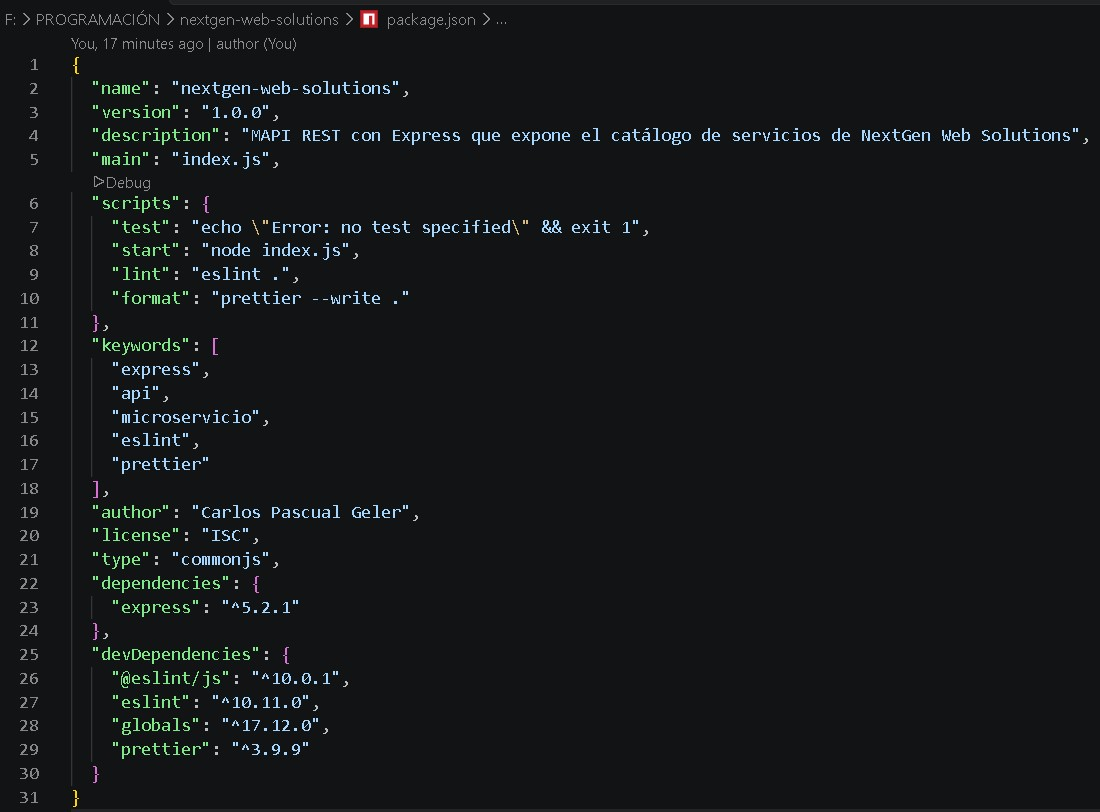
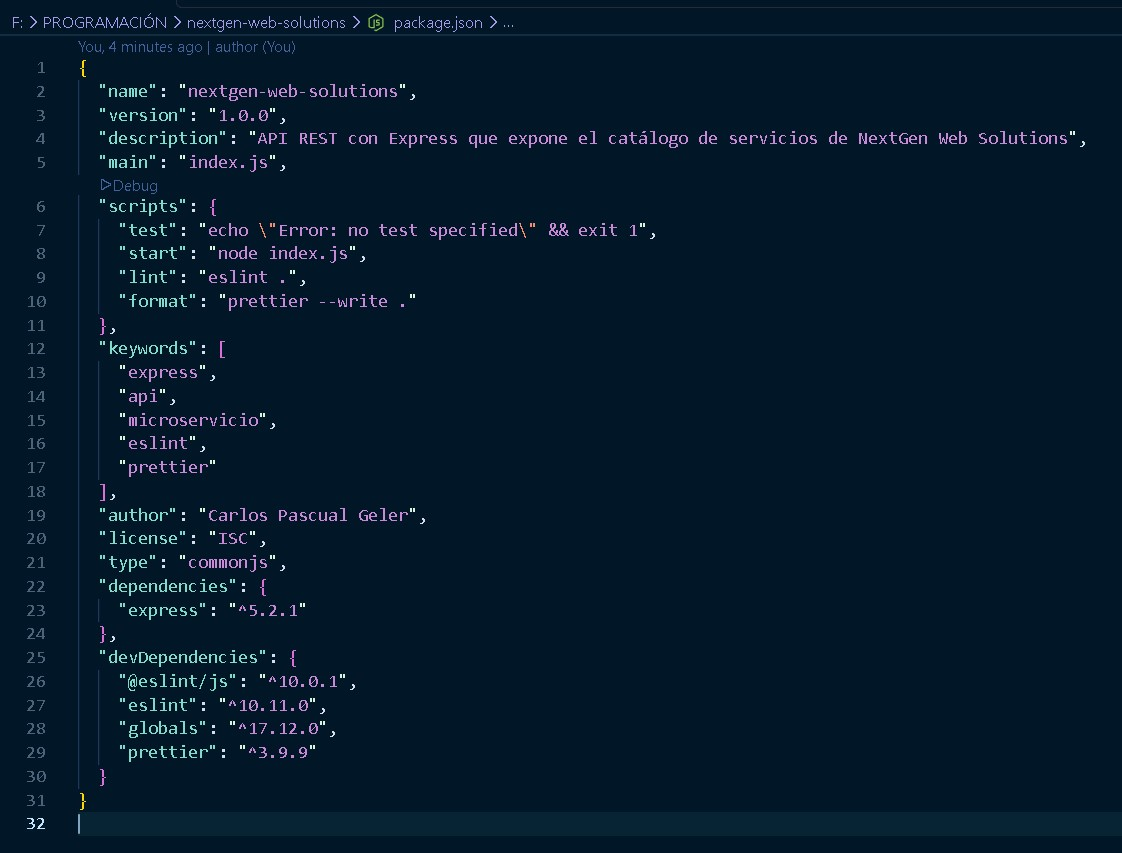
Revisión capturas y Readme

Changed region(s): [[0.0, 0.0, 1.0, 1.0]]

diff --git a/README.md b/README.md
@@ -1,0 +1,303 @@
+# NextGen Web Solutions: entorno profesional, auditoría con DevTools y microservicio
+
+## Introducción
+
+Como desarrollador junior de NextGen, el encargo consiste en analizar una tienda online con problemas de rendimiento y errores silenciosos y proponer mejoras. Para la auditoría se ha elegido un caso real: la web de The True Mayhem (`thetruemayhem.com`) y su tienda online (`thetruemayhemstore.eu`).
+
+El trabajo se divide en tres tareas: preparar un entorno profesional en VS Code, auditar la web con las herramientas de desarrollo del navegador y crear un pequeño microservicio con npm y Git.
+
+El repositorio reúne la configuración de VS Code, ESLint y Prettier, las capturas de la auditoría, el código del microservicio y este informe. La estructura principal es la siguiente:
+
+```text
+nextgen-web-solutions/
+├── .vscode/
+│   ├── extensions.json   ← extensiones recomendadas
+│   └── settings.json     ← ajustes comunes del proyecto
+├── capturas/             ← imágenes del informe
+├── index.js              ← el microservicio
+├── eslint.config.mjs
+├── .prettierrc
+├── .gitignore
+├── package.json
+├── package-lock.json
+└── README.md
+```
+
+## 1. Entorno profesional en VS Code
+
+### 1.1. Herramientas de desarrollo
+
+#### ESLint
+
+ESLint es un *linter*: analiza el código sin ejecutarlo y avisa de errores y malas prácticas, como variables que se declaran pero no se usan. Permite detectar estos problemas mientras se escribe. En este proyecto, las reglas están definidas en `eslint.config.mjs` a partir de la configuración recomendada.
+
+![ESLint instalado en VS Code](capturas/eslint.jpg)
+
+#### Prettier
+
+Prettier es un formateador de código. Se ocupa del aspecto del código, no de comprobar si funciona. Define cuestiones como las comillas, los puntos y coma, la sangría y la longitud de las líneas. En este proyecto, las reglas están en `.prettierrc`.
+
+ESLint comprueba las reglas y la calidad del código; Prettier se encarga de que el formato sea uniforme.
+
+![Prettier instalado en VS Code](capturas/prettier.jpg)
+
+#### Error Lens
+
+Error Lens muestra sobre la propia línea de código los avisos y errores que ya han detectado ESLint y VS Code. Así se pueden ver los problemas sin abrir el panel de Problemas. Su utilidad principal es hacerlos visibles mientras se trabaja.
+
+![Error Lens mostrando un aviso en la línea](capturas/error-lens.jpg)
+
+#### GitLens
+
+GitLens amplía las funciones de Git que ya ofrece VS Code. Permite ver quién modificó una línea, cuándo lo hizo y en qué commit mediante la función *blame*. También permite consultar el historial de los archivos desde el propio editor.
+
+![GitLens mostrando el autor y el commit de una línea](capturas/gitlens.jpg)
+
+### 1.2. Configuración del entorno
+
+El entorno de desarrollo tiene dos niveles de configuración. Uno es personal y recoge las preferencias de cada desarrollador. El otro pertenece al proyecto, se guarda en el repositorio y se comparte mediante Git. Si un ajuste aparece en los dos niveles, prevalece el del proyecto, por lo que las reglas comunes se mantienen aunque cada desarrollador tenga preferencias distintas.
+
+#### Configuración del proyecto
+
+La configuración compartida está en la carpeta `.vscode` y en los archivos de configuración del proyecto. Así, todos los desarrolladores trabajan con las mismas herramientas y reglas.
+
+El archivo `.vscode/extensions.json` contiene las extensiones recomendadas para trabajar con el proyecto:
+
+```json
+{
+  "recommendations": [
+    "dbaeumer.vscode-eslint",
+    "esbenp.prettier-vscode",
+    "usernamehw.errorlens",
+    "eamodio.gitlens"
+  ]
+}
+```
+
+Cuando otro desarrollador abre el proyecto, VS Code le muestra estas extensiones como recomendadas y puede instalarlas desde ahí.
+
+![Extensiones recomendadas del área de trabajo](capturas/extensiones-recomendadas.jpg)
+
+El archivo `.vscode/settings.json` contiene tres ajustes específicos para este proyecto:
+
+```json
+{
+  "editor.formatOnSave": true,
+  "editor.defaultFormatter": "esbenp.prettier-vscode",
+  "editor.codeActionsOnSave": {
+    "source.fixAll.eslint": "explicit"
+  }
+}
+```
+
+`editor.formatOnSave` aplica el formateo al guardar, `editor.defaultFormatter` establece Prettier como formateador y `editor.codeActionsOnSave` ejecuta las correcciones de ESLint al guardar manualmente con `Ctrl + S`. Con `"explicit"`, ESLint no se ejecuta en los guardados automáticos.
+
+Además, `.prettierrc` define las reglas de Prettier y `eslint.config.mjs` las reglas que usa ESLint para analizar el código. Como forman parte del repositorio, estas reglas son comunes para todo el equipo.
+
+#### Configuración personal
+
+No todas las preferencias deben formar parte del repositorio. El guardado automático al cambiar de archivo o de ventana es un ejemplo de una preferencia personal:
+
+```json
+{
+  "files.autoSave": "onFocusChange"
+}
+```
+
+Esta opción guarda los archivos cuando el editor pierde el foco, por ejemplo, al cambiar a otro archivo o a otra ventana. Se mantiene en la configuración personal porque es una preferencia de trabajo y no una regla del proyecto.
+
+![Ajustes personales de VS Code](capturas/settings-json.jpg)
+
+### 1.3. Flujo de trabajo
+
+Las herramientas anteriores forman un flujo de trabajo que acompaña al código desde que se escribe hasta que se registra en el repositorio:
+
+1. **Escritura.** Mientras se escribe, ESLint analiza el código y Error Lens muestra los avisos en la misma línea donde se producen, de modo que los problemas se corrigen en el momento.
+2. **Guardado.** Al guardar con `Ctrl + S`, ESLint corrige automáticamente lo que puede y Prettier da formato al archivo. En el guardado automático, al cambiar de archivo o de ventana, solo actúa Prettier.
+3. **Comprobación desde el terminal.** Los scripts `npm run lint` y `npm run format` aplican las mismas reglas sin depender del editor, por lo que el estándar se puede verificar en cualquier equipo.
+4. **Registro del cambio.** Tras el commit, GitLens muestra en cada línea quién la modificó, cuándo y en qué commit, lo que permite seguir la evolución del código sin salir del editor.
+
+Así, el estándar de trabajo queda definido en el proyecto y no depende de los hábitos de cada desarrollador.
+
+## 2. Auditoría con DevTools: Network
+
+### 2.1. Objeto de estudio y metodología
+
+La auditoría se ha realizado sobre la tienda `thetruemayhemstore.eu`, construida con Shopify, y sobre la web principal `thetruemayhem.com`, construida con WordPress. Se han usado las herramientas de desarrollo de Chrome (`F12`): **Network** para revisar los recursos descargados, **Console** para detectar errores y **Lighthouse** para medir el rendimiento.
+
+Las pruebas de Lighthouse se han ejecutado en modo móvil, emulando un Moto G Power con una conexión *Slow 4G*.
+
+### 2.2. Visión general de la carga
+
+Al cargar la página principal de la tienda, Network registra **374 peticiones** y una transferencia total de **4,9 MB**. Es una cifra alta para una página de inicio. En una conexión móvil lenta, tantas peticiones y tantos datos aumentan el tiempo de carga.
+
+![Resumen de peticiones en la pestaña Network](capturas/[COMPLETAR].jpg)
+
+### 2.3. Recursos que retrasan la carga
+
+| Recurso | Peso | Problema |
+|---|---|---|
+| `app.js` | 246 kB | Script principal de gran tamaño que el navegador debe descargar y ejecutar antes de que la página responda |
+| Scripts de terceros (Facebook Pixel, Google Analytics) | ~385 kB | Código de rastreo y publicidad que no aporta nada a la experiencia de compra |
+| Imágenes de producto | [COMPLETAR] | Se descargan todas al inicio, aunque no estén visibles en pantalla |
+| Logo | [COMPLETAR] | Imagen mucho más grande de lo que se muestra en pantalla |
+
+**Scripts de terceros.** El píxel de Facebook lo añade una aplicación de Shopify llamada Orichi. En la columna *Initiator* de Network se puede comprobar que lo carga `orichi-v2.min.js`. Las aplicaciones de Shopify pueden añadir sus propios scripts, por lo que conviene revisar qué recursos incorpora cada una. También habría que comprobar si el píxel se está cargando dos veces: una desde la aplicación y otra desde la configuración de Shopify.
+
+**Imágenes sin carga diferida.** Las imágenes de producto se descargan aunque todavía no sean visibles. Con `loading="lazy"`, el navegador puede esperar a que el usuario se acerque a ellas antes de descargarlas.
+
+**Logo sobredimensionado.** El logo se descarga con unas dimensiones mucho mayores que las que tiene en pantalla. Eso hace que se descarguen datos que no son necesarios.
+
+![Recursos más pesados ordenados por tamaño](capturas/[COMPLETAR].jpg)
+
+### 2.4. Medición con Lighthouse
+
+La puntuación de rendimiento de la tienda estuvo **entre 29 y 56 sobre 100** en distintas ejecuciones, sin cambios en la web. Lighthouse puede dar resultados diferentes según las condiciones de la prueba, especialmente por la red y por la carga de los scripts de terceros. Las métricas siguientes corresponden a la ejecución con puntuación 29:
+
+| Métrica | Valor | Qué mide |
+|---|---|---|
+| FCP (First Contentful Paint) | [COMPLETAR] | Cuándo aparece el primer contenido en pantalla |
+| LCP (Largest Contentful Paint) | [COMPLETAR] | Cuándo se muestra el elemento principal de la página |
+| TBT (Total Blocking Time) | [COMPLETAR] | Tiempo en que la página no responde porque el navegador está ejecutando JavaScript |
+| CLS (Cumulative Layout Shift) | [COMPLETAR] | Cuánto se mueven los elementos mientras se carga la página |
+| Speed Index | [COMPLETAR] | Rapidez con la que se completa visualmente la página |
+
+Las otras tres categorías de Lighthouse (accesibilidad, buenas prácticas y SEO) obtuvieron 100. El principal problema detectado está, por tanto, en el rendimiento.
+
+![Puntuaciones de Lighthouse](capturas/mayhem-lighthouse-1.jpg)
+![Métricas de rendimiento](capturas/mayhem-lighthouse-2.jpg)
+![Mejoras propuestas por Lighthouse](capturas/mayhem-lighthouse-3.jpg)
+![Diagnóstico del peso de JavaScript](capturas/mayhem-lighthouse-4.jpg)
+![Condiciones de la prueba](capturas/mayhem-lighthouse-5.jpg)
+
+### 2.5. Recomendaciones de rendimiento
+
+1. Revisar las aplicaciones de Shopify instaladas y eliminar las que no se usen, empezando por las que añaden scripts de rastreo.
+2. Comprobar si el píxel de Facebook se carga por duplicado y dejar una sola integración.
+3. Aplicar carga diferida (`loading="lazy"`) a las imágenes que no son visibles al cargar la página.
+4. Redimensionar el logo al tamaño con el que se muestra y servirlo en un formato moderno como WebP.
+5. Revisar el contenido de `app.js` para dividirlo o retrasar la carga de las partes que no hacen falta al inicio.
+
+## 3. Auditoría con DevTools: Console
+
+El encargo habla de "errores silenciosos": fallos que no rompen nada visible, pero que indican que algo no funciona bien. En la web principal de The True Mayhem se han encontrado dos tipos.
+
+### 3.1. Errores de script de MailerLite
+
+MailerLite es el servicio de *email marketing* que gestiona la suscripción a la newsletter del grupo. En la consola aparecen dos errores relacionados y cada uno se repite dos veces:
+
+```text
+Invalid argument "accounts" passed to MailerLite script
+Uncaught TypeError: window[window.MailerLiteObject](...) is not a function
+```
+
+Los errores no aparecían en todas las recargas. Por eso fue necesario activar **Preserve log** en la consola para conservar los mensajes entre cargas.
+
+![Errores de MailerLite en la consola](capturas/mayhem-errores.jpg)
+
+**Origen de los errores.** Al buscar `mailerlite` en Network se localizó `popups.js`, servido desde `static.mailerlite.com`. Sus líneas 35 a 37 permiten entender los dos errores:
+
+```js
+window.MailerLiteObject = window.MailerLiteObject || 'ml';
+window[window.MailerLiteObject] = window[window.MailerLiteObject] || function () {};
+// [COMPLETAR: copiar la línea 37 tal como aparece en la captura]
+```
+
+1. La línea 35 establece que la función de MailerLite se llamará `ml`.
+2. La línea 36 crea `ml` como función vacía si todavía no existe.
+3. La línea 37 hace dos llamadas encadenadas: primero `ml('accounts')` y después una segunda llamada usando el resultado.
+
+La versión actual de MailerLite no reconoce el argumento `'accounts'` y produce el **primer error**. Como la llamada devuelve `undefined`, la línea 37 intenta ejecutar ese resultado como si fuera una función y produce el **segundo error**. Por tanto, **el primer error provoca el segundo**.
+
+![Líneas 35 a 37 de popups.js](capturas/mayhem-mailerlite.jpg)
+
+**Diagnóstico.** En la página aparecen dos integraciones de MailerLite de épocas distintas: `popups.js`, del sistema antiguo de ventanas emergentes, y `universal.js`, el script actual, que ya no acepta la llamada `accounts`. Además, `custom.js?ver=1625936861` tiene una versión de julio de 2021. Todo apunta a una web montada en 2021 y actualizada solo en parte: se añadió el script nuevo sin retirar el antiguo.
+
+**Por qué los errores son intermitentes.** La explicación más probable es que los scripts se cargan de forma asíncrona y el orden puede cambiar según la velocidad de la red. Si uno llega antes que otro, se produce el fallo. Esto encaja con que los errores aparecieran con Lighthouse, que simula una red lenta, y en algunas primeras visitas, pero no siempre al recargar.
+
+**Una pista falsa.** Buscar `mailerlite` en Network devuelve cientos de coincidencias en más de 150 archivos. La mayoría corresponden a una cookie de MailerLite que el navegador envía en cada petición al dominio, no a cientos de scripts. Por eso hay que distinguir esas coincidencias del código que realmente provoca el error.
+
+### 3.2. Contenido mixto (Mixed Content)
+
+La consola muestra **12 avisos de Mixed Content**. Aparecen cuando una página cargada por HTTPS intenta cargar recursos mediante HTTP. En este caso, son imágenes cuyas direcciones siguen apuntando a `http://` en la carpeta de subidas de WordPress de 2021.
+
+Los navegadores actuales pueden intentar cargar esos recursos por HTTPS o bloquearlos. El resultado puede ser que algunas imágenes no se muestren y que aparezca una advertencia de seguridad.
+
+![Avisos de Mixed Content en la consola](capturas/[COMPLETAR].jpg)
+
+### 3.3. Recomendaciones
+
+1. Eliminar la integración antigua de MailerLite (`popups.js` y la llamada desde `custom.js`) y mantener solo el código de inserción actual.
+2. Actualizar las direcciones de las imágenes de `http://` a `https://` en la base de datos de WordPress.
+3. Incorporar una herramienta de registro de errores en producción, ya que los fallos intermitentes como estos son difíciles de detectar revisando la consola a mano.
+
+## 4. Microservicio con npm y Git
+
+### 4.1. Inicialización y dependencias
+
+El proyecto se ha creado con `npm init -y`, que genera `package.json`, donde se define la información y las dependencias del proyecto. Las dependencias se dividen en dos grupos:
+
+| Tipo | Paquete | Uso |
+|---|---|---|
+| `dependencies` | `express` | Framework con el que se crea el servidor; el programa lo necesita para funcionar |
+| `devDependencies` | `eslint`, `@eslint/js`, `globals` | Análisis del código y configuración de ESLint para Node |
+| `devDependencies` | `prettier` | Formateo del código |
+
+Las dependencias de desarrollo se utilizan durante el desarrollo y no son necesarias para ejecutar el programa en producción.
+
+![package.json del proyecto](capturas/package-json.jpg)
+
+### 4.2. Scripts de npm
+
+[COMPLETAR: copiar el bloque `"scripts"` del package.json]
+
+- `npm start` arranca el servidor.
+- `npm run lint` analiza el código con ESLint.
+- `npm run format` da formato al código con Prettier.
+
+### 4.3. La ruta `/api/servicios`
+
+El microservicio, definido en `index.js`, expone la ruta `/api/servicios` y devuelve en JSON la lista de servicios de la agencia. El puerto está definido como una constante al principio del archivo, de modo que se puede cambiar desde un único punto.
+
+![Respuesta de la ruta /api/servicios en el navegador](capturas/servicios-api.jpg)
+
+### 4.4. Cómo ejecutarlo
+
+```powershell
+git clone https://github.com/CarlosPaskual/nextgen-web-solutions.git
+cd nextgen-web-solutions
+npm install
+npm start
+```
+
+Después, abre en el navegador `http://localhost:[COMPLETAR: puerto]/api/servicios`.
+
+### 4.5. Control de versiones con Git
+
+El archivo `.gitignore` excluye la carpeta `node_modules`, donde se guardan las dependencias instaladas. No se sube al repositorio porque se puede volver a generar con `npm install` a partir de `package.json` y `package-lock.json`.
+
+Cada paso del proyecto se ha guardado en un commit con un mensaje descriptivo. Así, el historial permite seguir la evolución del trabajo:
+
+```text
+[COMPLETAR: pegar la salida actual de git log --oneline]
+```
+
+## 5. Mentalidad de desarrollador
+
+Este trabajo ha permitido comprobar en la práctica que algunas ideas habituales sobre el desarrollo web no siempre son ciertas.
+
+**"VS Code es un IDE."** Un IDE (entorno de desarrollo integrado) reúne en una sola herramienta funciones como el análisis del código, la depuración, el terminal y el control de versiones. Al instalar VS Code, no tenía avisos de ESLint, ni el formateo de Prettier, ni la información de historial que aporta GitLens. En este proyecto, esas funciones se han añadido mediante extensiones y configuración.
+
+**"Si la web se ve bien, no tiene errores."** La web de The True Mayhem funciona aparentemente con normalidad, pero la consola muestra errores de MailerLite que solo aparecen en algunas cargas. Un error silencioso puede afectar a una función, como la suscripción a la newsletter, sin que el usuario lo vea.
+
+**"La nota de Lighthouse es un dato fijo."** La misma tienda obtuvo 56 en una ejecución y 29 en otra, sin cambios en la web. Por eso conviene repetir las mediciones y mirar las métricas, no quedarse con una sola puntuación.
+
+**"`node_modules` se sube al repositorio."** Las dependencias no se suben: se indican en `package.json` y se instalan con `npm install`. Por eso `node_modules` aparece en `.gitignore`.
+
+**"El formato del código es cosa de cada uno."** Con `.prettierrc` y la carpeta `.vscode` en el repositorio, el equipo puede usar el mismo formato aunque cada desarrollador tenga sus propias preferencias.
+
+## 6. Conclusión
+
+El trabajo cubre las tres tareas del encargo. La configuración de VS Code queda en el repositorio junto con las reglas de ESLint y Prettier, de modo que el proyecto mantiene un estándar común. La auditoría ha detectado demasiadas peticiones y scripts de terceros en la tienda, además de una integración antigua de MailerLite que provoca errores silenciosos en la web principal. El microservicio queda preparado con npm y Git, sus dependencias, sus scripts y un historial de cambios.
+
+Las mejoras más urgentes son reducir los scripts de terceros de la tienda y retirar la integración antigua de MailerLite. Son dos cambios concretos que pueden mejorar el rendimiento y evitar errores que el usuario no ve.
